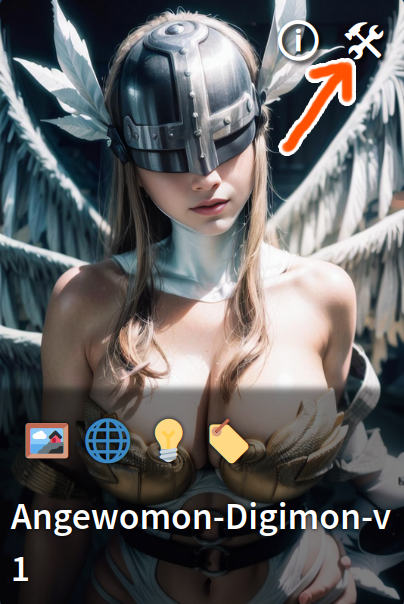
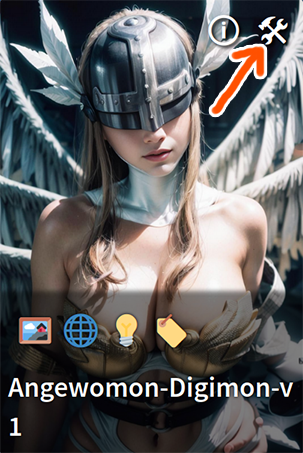
Remove unnecessary block, resize model card image

diff --git a/README.md b/README.md
@@ -183,13 +183,6 @@ In these cases, you can always link a model to civitai by filling its URL in thi
 
 
 ## Feature Request
-~~
-No new feature for v1.x after v1.5. All new feature will go to 2.x.
-
-2.x will focus on custom model information and may change name to "Model Info Helper", because it is not just focus on Civitai anymore.
-
-From v1.5, v1.x goes into maintenance phase.
-~~
 Feel free to submit feature requests, but pull requests are preferred.
 
 Enjoy!
